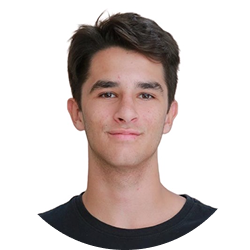
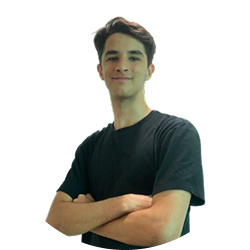
Adicionando imagens membros - 4/11

diff --git a/frontend/src/components/Web/Membros/Membros.jsx b/frontend/src/components/Web/Membros/Membros.jsx
@@ -1,5 +1,9 @@
 import React from "react";
 import EricImg from "../../../assets/images/EricImage.png";
+import LeoImg from "../../../assets/images/LeoImage.png";
+import MatheusImg from "../../../assets/images/MatheusImage.png";
+import RafaelImg from "../../../assets/images/RafaelImage.png";
+import EmanuelImg from "../../../assets/images/EmanuelImage.png";
 import "./Membros.css";
 
 export default function Membros() {
@@ -32,8 +36,8 @@ export default function Membros() {
             </div>
           </div>
           <div className="membro">
-            <img src={EricImg} alt="Eric Img" />
-            <h2>Eric Pfeuti</h2>
+            <img src={LeoImg} alt="Leo Img" />
+            <h2>Leonardo Duarte</h2>
             <div className="btn-social">
               <a href="#">
                 <button>
@@ -53,8 +57,8 @@ export default function Membros() {
             </div>
           </div>
           <div className="membro">
-            <img src={EricImg} alt="Rafa Img" />
-            <h2>Eric Pfeuti</h2>
+            <img src={RafaelImg} alt="Rafa Img" />
+            <h2>Rafael Sá</h2>
             <div className="btn-social">
               <a href="#">
                 <button>
@@ -76,8 +80,8 @@ export default function Membros() {
         </div><br />
         <div className="row">
           <div className="membro">
-            <img src={EricImg} alt="Eric Img" />
-            <h2>Eric Pfeuti</h2>
+            <img src={MatheusImg} alt="Matheus Img" />
+            <h2>Matheus Santos</h2>
             <div className="btn-social">
               <a href="#">
                 <button>
@@ -97,8 +101,8 @@ export default function Membros() {
             </div>
           </div>
           <div className="membro">
-            <img src={EricImg} alt="Rafa Img"/>
-            <h2>Eric Pfeuti</h2>
+            <img src={EmanuelImg} alt="Emanuel Img"/>
+            <h2>Emanuel Domingues</h2>
             <div className="btn-social">
               <a href="#">
                 <button>
